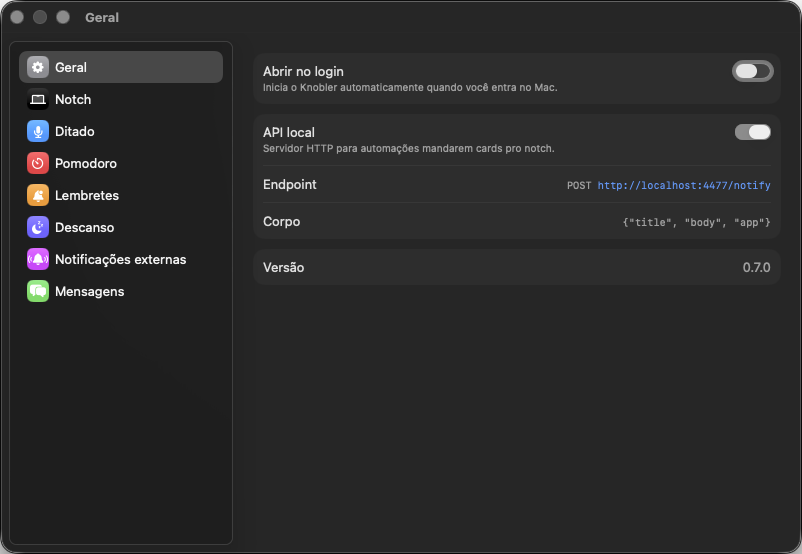
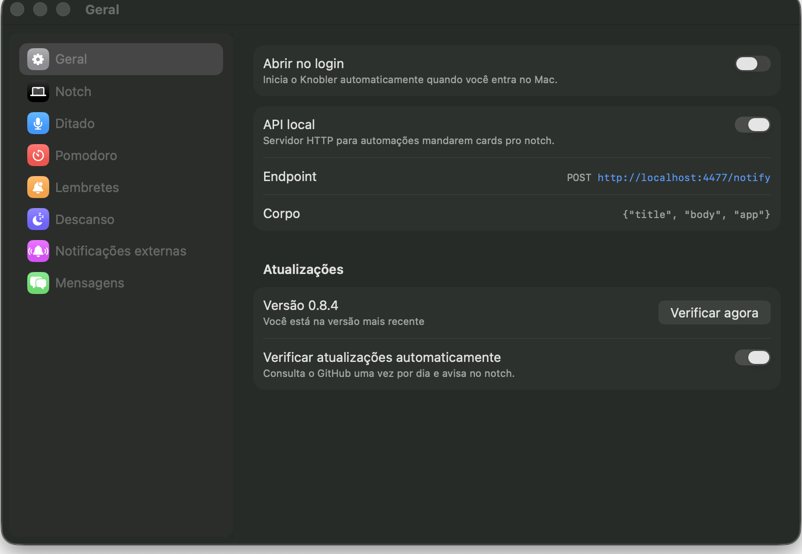
fix(updater): não sonda o brew na main thread; fecha docs da feature
canInstall era computado e rodava `brew list` (~1s) dentro do body do
SwiftUI — travava a janela de Ajustes a cada redraw. Agora é publicado e
calculado uma vez, em background, quando a checagem encontra versão nova.

Também: imagem do painel Geral regerada, Updater no mapa de arquitetura e
entrada de HANDOFF da sessão.

Claude-Session: https://claude.ai/code/session_01J7S9LMuEgUSLXNYM2ir5nz

diff --git a/Knobler/Updater.swift b/Knobler/Updater.swift
@@ -103,6 +103,11 @@ final class Updater: ObservableObject {
     /// nil = nenhuma novidade (ou ainda não checou).
     @Published private(set) var state: UpdateState?
 
+    /// Dá pra instalar de dentro do app, ou só resta abrir a página do release?
+    /// Cacheado de propósito: descobrir isso roda `brew list` (~1s), e a UI lê
+    /// esta propriedade a cada redraw — sondar no `body` travaria a janela.
+    @Published private(set) var canInstall = false
+
     /// Versão que o usuário mandou embora com "Depois". Persistida: o aviso não
     /// volta a incomodar até sair uma versão diferente.
     private(set) var skippedVersion: String? {
@@ -173,10 +178,18 @@ final class Updater: ObservableObject {
                   let release = try? parseRelease(data) else { return }
             UserDefaults.standard.set(Date(), forKey: Self.lastCheckKey)
             guard isNewer(release.version, than: self.installedVersion) else {
-                DispatchQueue.main.async { self.state = nil }
+                DispatchQueue.main.async {
+                    self.state = nil
+                    self.canInstall = false
+                }
                 return
             }
-            DispatchQueue.main.async { self.state = .available(release) }
+            // já estamos fora da main queue: a sonda do brew cabe aqui
+            let installable = self.probeCanInstall(release)
+            DispatchQueue.main.async {
+                self.canInstall = installable
+                self.state = .available(release)
+            }
         }.resume()
     }
 
@@ -217,9 +230,9 @@ extension Updater {
         return release.url
     }
 
-    /// false = não dá pra instalar sozinho; a UI oferece "Ver release".
-    var canInstall: Bool {
-        guard case .available(let release) = state else { return false }
+    /// Descobre se dá pra instalar sozinho. **Chame fora da main queue**: o
+    /// `brew list` daqui leva ~1s. O resultado vira o `canInstall` publicado.
+    func probeCanInstall(_ release: Release) -> Bool {
         if installedViaBrew { return true }
         return release.asset != nil && isInApplications
     }

diff --git a/HANDOFF.md b/HANDOFF.md
@@ -1,3 +1,71 @@
+# 🆕 SESSÃO 2026-07-28 (tarde) — aviso e instalação de atualizações
+
+Branch `feat/updater`. Spec `docs/superpowers/specs/2026-07-28-auto-update-design.md`,
+plano `docs/superpowers/plans/2026-07-28-updater.md`, Tasks 1–6 fechadas.
+
+O app não sabia que era velho: atualizar significava lembrar de rodar
+`brew upgrade` na mão. Agora ele consulta o GitHub uma vez por dia, avisa e
+instala com um clique.
+
+## O que foi feito
+
+| Commit | Entrega |
+|---|---|
+| `db96975` | `Knobler/Updater.swift` — `Release`, `UpdateState`, `isNewer`, `stripMarkdown`, `parseRelease` + `tools/updatercheck.swift` |
+| `1eeb5cf` | classe `Updater` (checagem 24h, launch+30s, `skippedVersion`) e `AppSettings.checkForUpdates` |
+| `f13f6ed` | instalação: sonda do brew, caminho brew, caminho direto, relaunch |
+| `cd214e4` | Ajustes › Geral + endurecimento da origem/identidade do download |
+| `75f6d2f` | card no notch (`Mode.update`, `updateNotchCard`, 2 cenários de snapshot) |
+| `a6f8135` | fiação no `AppDelegate`, CHANGELOG, `docs/settings.md`, README |
+
+**Dois instaladores, escolhidos em runtime.** `brew list --cask knobler` responde
+→ `brew upgrade --cask knobler` (mantém o Caskroom em dia); não responde → baixa
+o `.zip` do release, valida e substitui o bundle com `replaceItemAt`. Sem os dois
+caminhos a feature não serviria a quem a pediu: **a máquina do autor não tem o app
+instalado via brew** (sem Caskroom, e `codesign -dv` mostra `TeamIdentifier=7UNDW72N73`,
+Apple Development — cópia manual de build do Xcode).
+
+O relaunch é um `/bin/sh` destacado que espera o PID morrer e roda `open -a`: o
+processo antigo sobrevive à substituição do bundle, então quem reabre tem que ser
+externo.
+
+## Decisões que não estavam no plano
+
+- **`ActivityRingView` no lugar de `ProgressView`** no card: o indicador do AppKit
+  precisa de `NSView` real e vira o ícone de "proibido" no harness de snapshot.
+- **Origem e identidade do download validadas** (achado da revisão de segurança):
+  `codesign --verify --strict` prova integridade, não autoria. Agora exige
+  `https://github.com/luccas-silveira/knobler/releases/download/…` e
+  `CFBundleIdentifier` igual ao atual. A *identidade* de assinatura **não** é
+  comparada de propósito — travaria a transição Apple Development → cert local.
+- **`canInstall` virou propriedade publicada e cacheada**: era computada e rodava
+  `brew list` (~1s) dentro do `body` do SwiftUI, travando a janela a cada redraw.
+
+## Validação
+
+- `updatercheck` (SemVer, strip de markdown, parse) ✅; `snapshot.sh` 51 cenários ✅;
+  `xcodebuild` Debug ✅.
+- Ao vivo, com `MARKETING_VERSION=0.8.0` forçado: a checagem achou 0.8.4, o card
+  desceu sozinho no notch com as notas do release, e com `updateSkippedVersion`
+  gravado ele **não** reaparece.
+- **Não verificado**: o ciclo instalar → substituir bundle → relançar. Rodando de
+  `build/dd`, a guarda `isInApplications` (correta) recusa e mostra "Ver release".
+  Provar exige rodar de `/Applications` e substituir o app instalado.
+
+## Pendências
+
+- **Teste de aceitação do update real**: publicar a próxima release
+  (`./tools/release.sh minor` — é feature nova) e atualizar a partir da anterior.
+- **O primeiro update pelo caminho direto troca a identidade de assinatura**
+  (Apple Development → `Knobler Local Signing`) e vai derrubar a Acessibilidade
+  **uma vez**: reconceder e seguir. Das próximas não acontece mais.
+- `feat/updater` ainda não foi mesclada em `master` nem publicada — a feature está
+  em `[Unreleased]`.
+- `AGENTS.md` e `footer-check.png` na raiz continuam sem rastreamento (herdado da
+  sessão da manhã; ver abaixo).
+
+---
+
 # 🏁 SESSÃO 2026-07-28 — solicitações de agente no notch (plano fechado)
 
 Plano `docs/superpowers/plans/2026-07-25-agent-requests.md` concluído: Tasks 1–8.

diff --git a/docs/architecture.md b/docs/architecture.md
@@ -18,7 +18,8 @@ KnoblerMain
        │    ├─ NotificationInterceptor / HUDs / MicMonitor
        │    ├─ CalendarCountdown / Pomodoro / ScheduleEngine
        │    ├─ MirrorController / ScreenshotWatcher / ShelfStore
-       │    └─ LANMessaging / WebhookClient
+       │    ├─ LANMessaging / WebhookClient
+       │    └─ Updater ── GitHub Releases + brew/zip
        └─ uma NotchWindow + NotchViewModel por display
              └─ NotchView e cards SwiftUI
 ```
@@ -40,6 +41,7 @@ regras de domínio novas são implementadas.
 | Mensagens e peers | `MessageStore` / `LANMessaging` | views e janela de entrada |
 | Webhooks | `WebhookClient` + Keychain | Ajustes e notificações |
 | Agenda | `CalendarCountdown`, `ScheduleEngine` | notch e Ajustes |
+| Versão disponível e instalação | `Updater` | card do notch e Ajustes › Geral |
 
 O mesmo estado de Ask é injetado em todas as janelas. Não crie um store por
 monitor: uma resposta ou cancelamento precisa vencer uma única vez, mesmo com
